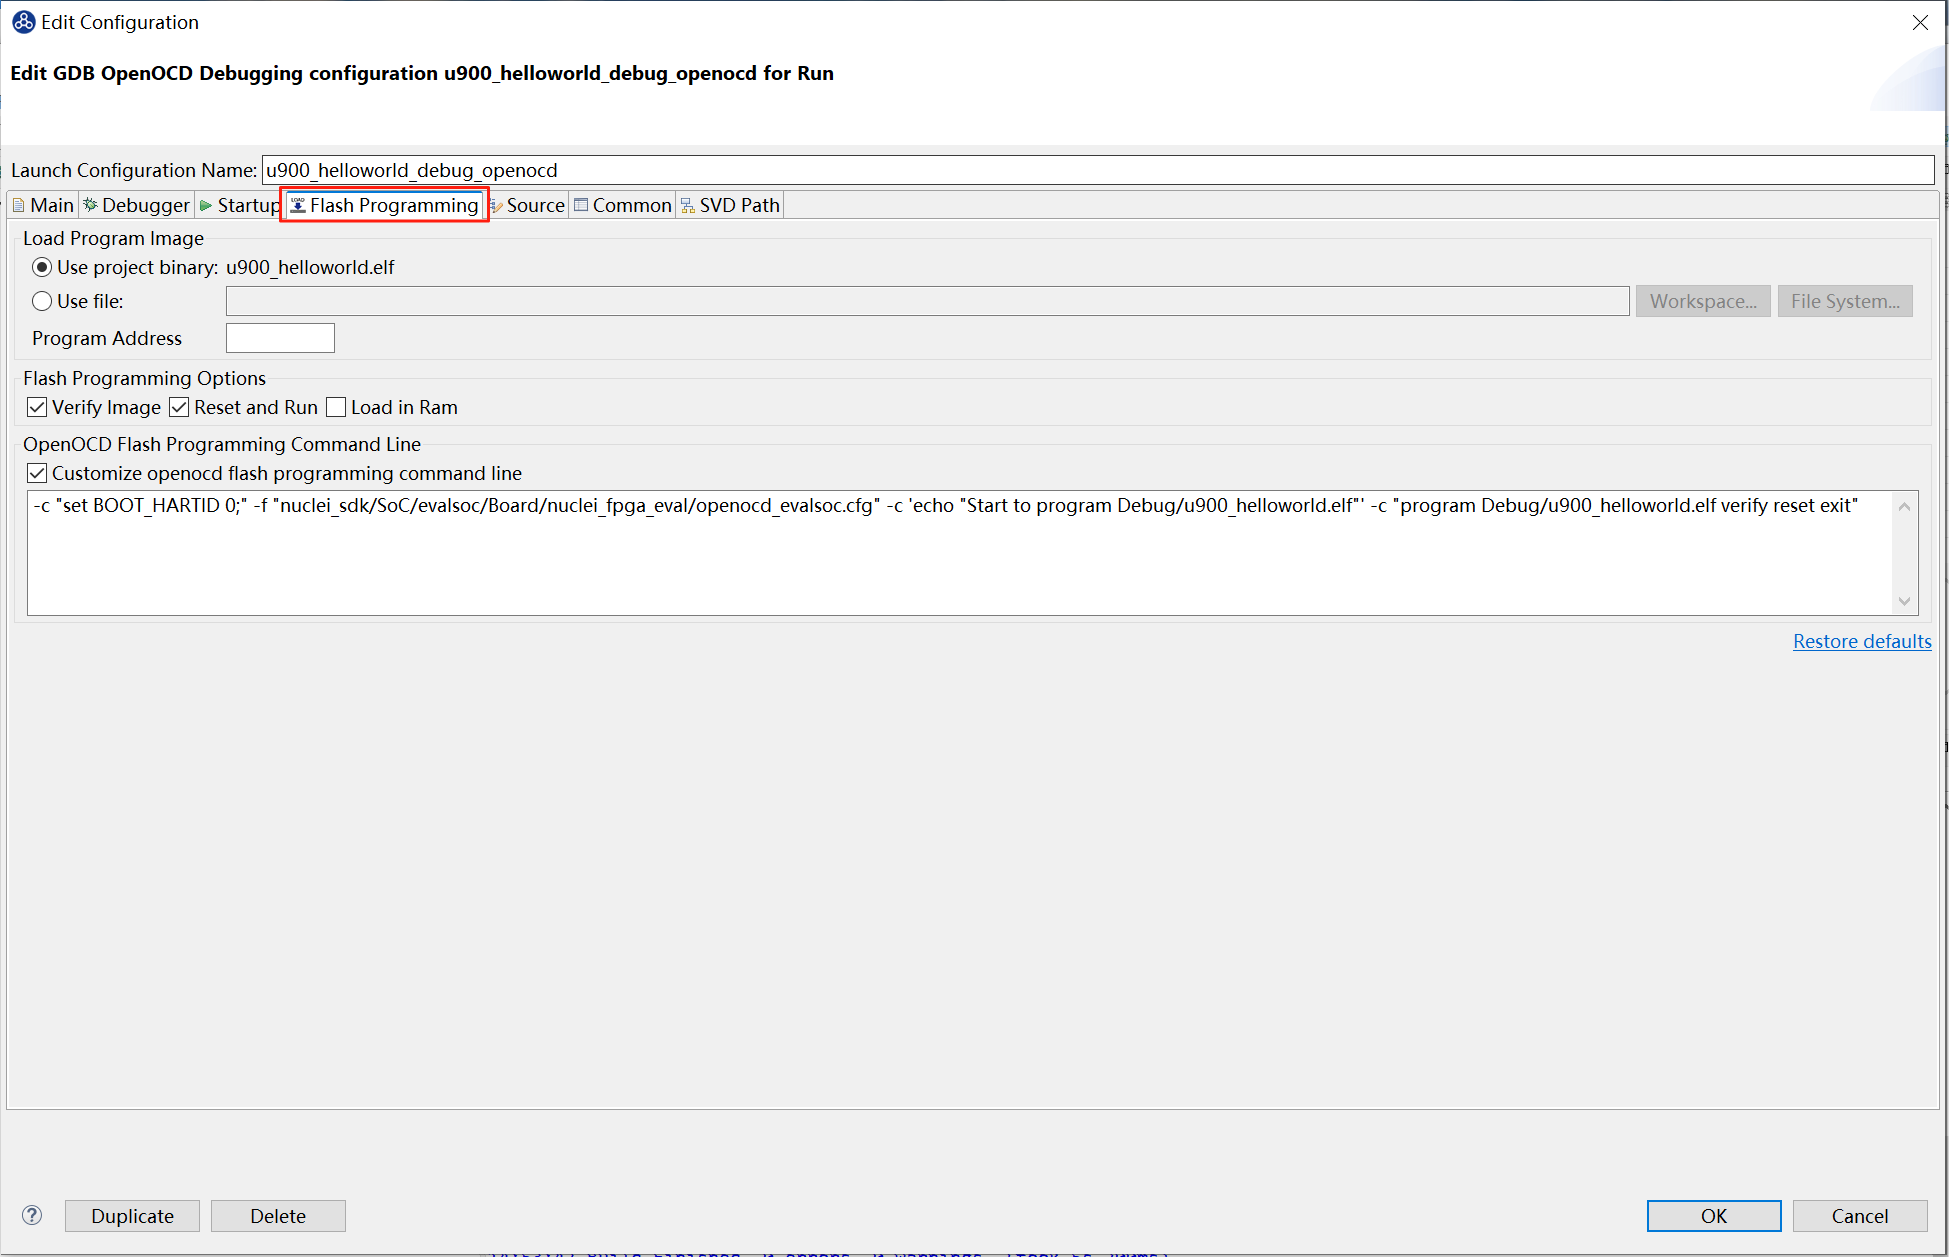
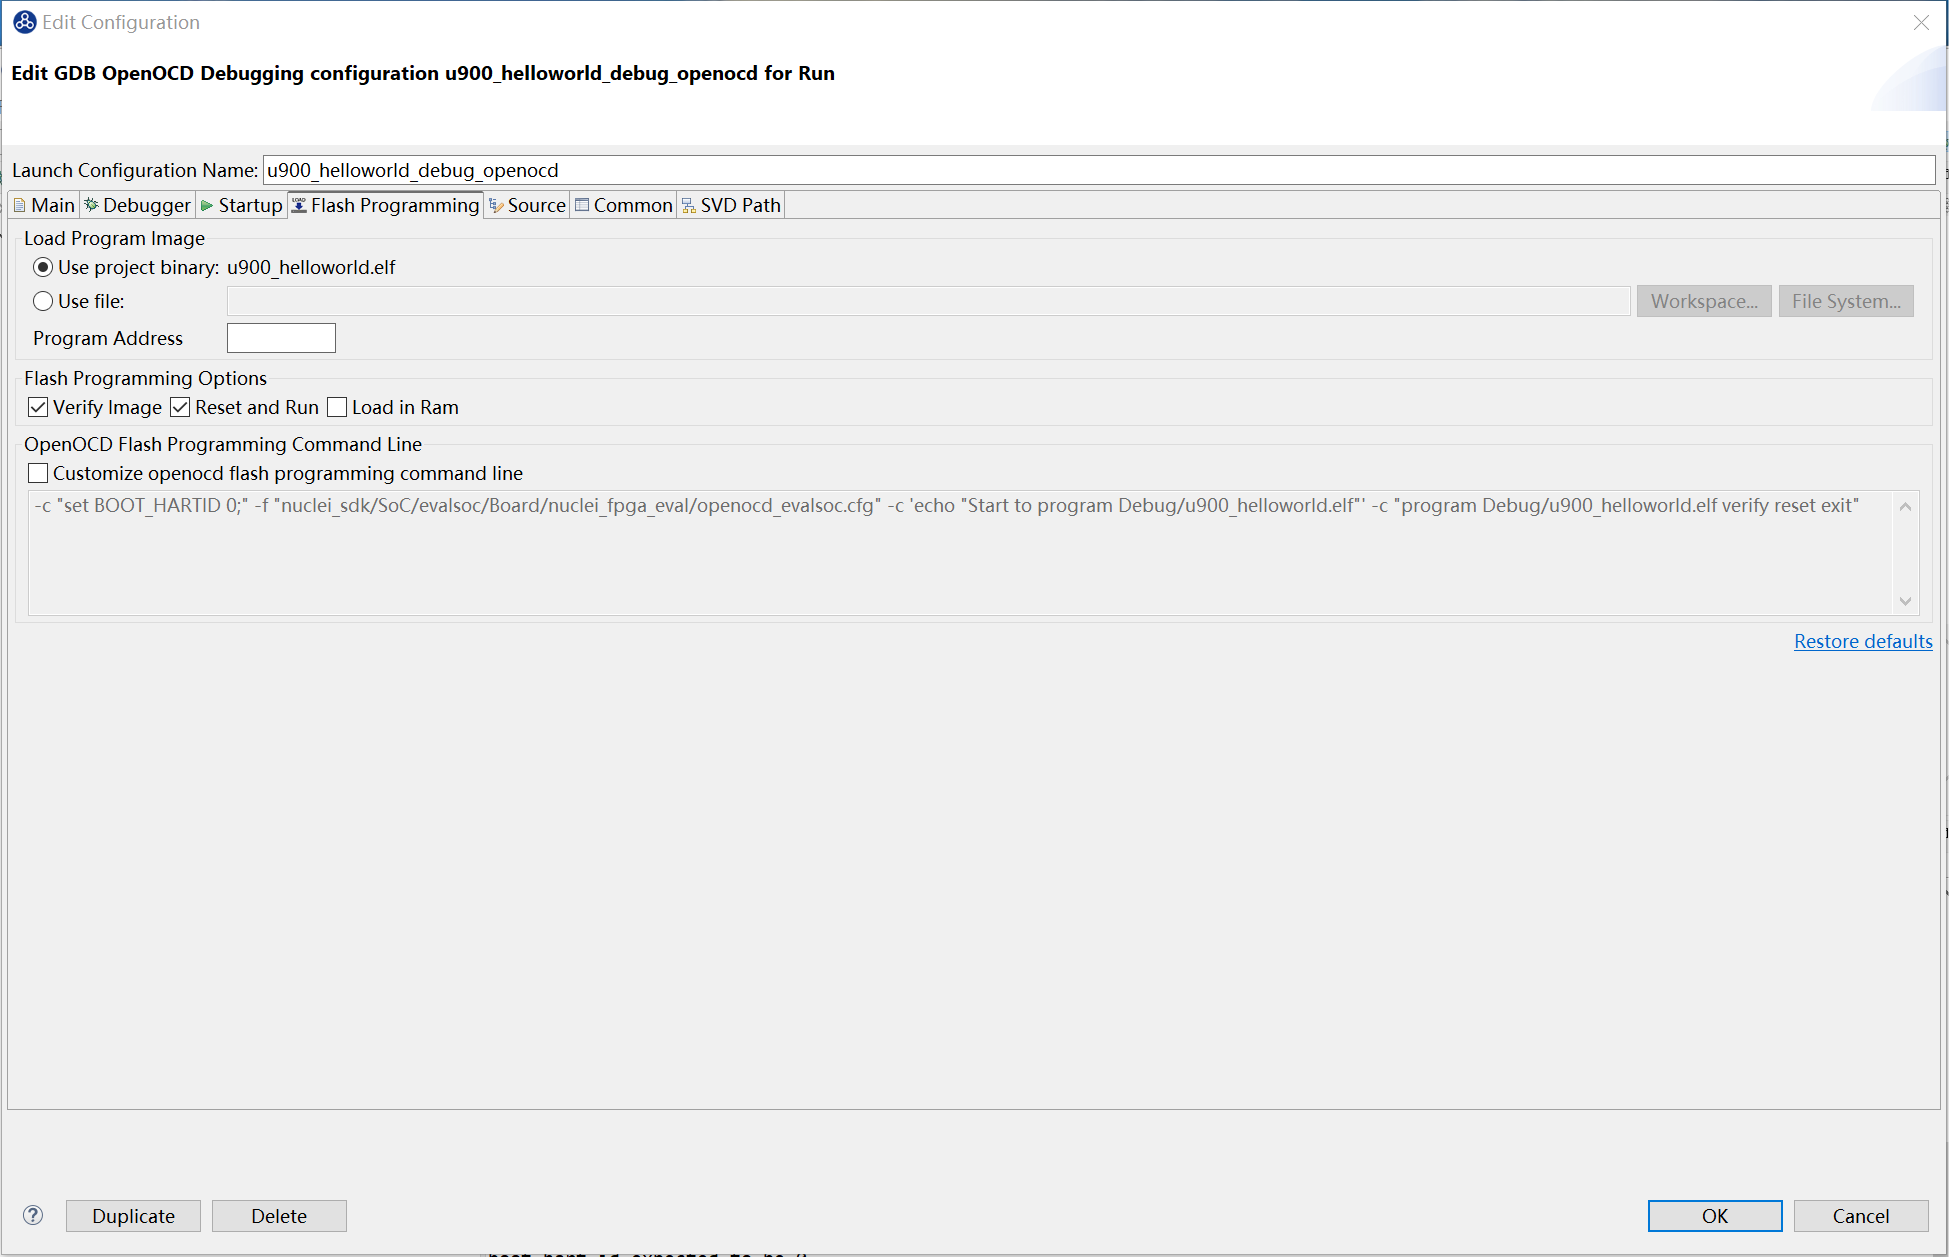
修改文档

diff --git a/20-quick_downloads_using_flash_programming.md b/20-quick_downloads_using_flash_programming.md
@@ -37,31 +37,90 @@
 
 选择 **Flash Programming** 选项卡，进入配置页面。
 
+由于是Flash下载模式，这里默认选择的verify image和reset and run即可。
+
 ![image-Ori_Project_Build](asserts/images/20/20-3.png)
 
 具体配置项内容可参考[Nuclei Development Tool Guide](https://download.nucleisys.com/upload/files/doc/nucleistudio/NucleiStudio_User_Guide.202502.pdf)
 
-现在这里使用的Flash下载模式，Flash Programming Options就要选中Verify Image和Reset and Run。
-
-如果使用的是下载到内存里，则勾选Load in Ram，然后获取起始加载地址，并写入到Progarm Address，Download命令会带上 resume {Progarm Address}参数。
-
-获取起始加载地址的方式如下。
-
-在NulceiStudio\toolchain\gcc\bin下执行命令行riscv64-unknown-elf-readelf -h u900_helloworld.elf
-
-![image-Ori_Project_Build](asserts/images/20/20-6.png)
-
-还有其他参数需要通过GDB执行时，我们将其加入到OpenOCD Flash Programming Command line，这里我们使用默认的参数。
-
 **step4：下载**
 
-鼠标右键项目，选择Flash Programming选项，下载二进制文件到硬件开发板。
+选中项目，点击Flash Programming，下载二进制文件到硬件开发板。
 
 ![image-Ori_Project_Build](asserts/images/20/20-4.png)
 
 下载成功后，用户可以在 **Console** 中看到下载结果，确认二进制文件已成功烧录到硬件中。
 
+~~~
+** Programming Started **
+Info : Padding image section 1 at 0x200029c4 with 4 bytes
+** Programming Finished **
+** Verify Started **
+Warn : [riscv.cpu] Re-reading memory from addresses 0x20000004 and 0x20000008.
+Warn : [riscv.cpu] Re-reading memory from addresses 0x20000010 and 0x20000014.
+** Verified OK **
+** Resetting Target **
+Info : JTAG tap: riscv.cpu tap/device found: 0x10900a6d (mfg: 0x536 (Nuclei System Technology Co Ltd), part: 0x0900, ver: 0x1)
+Info : [riscv.cpu] Register fp is dirty!
+Info : [riscv.cpu] Register s1 is dirty!
+Info : [riscv.cpu] Register a0 is dirty!
+Info : [riscv.cpu] Register a1 is dirty!
+Info : [riscv.cpu] Discarding values of dirty registers.
+shutdown command invoked
+~~~
+
+
+
 ![image-Ori_Project_Build](asserts/images/20/20-5.png)
+
+![image-Ori_Project_Build](asserts/images/20/20-6.png)
+
+**step5：下载到内存的区别**
+
+Nuclei Studio有DDR、FLASH、FLASHXIP、ILM、SRAM多种下载模式。
+
+FLASH、FLASHXIP模式按上面的步骤使用即可，而DDR、ILM、SRAM是下载到内存中的与Flash有所区别，下面以ILM为例。
+
+点击Nulcei Settings打开页面，在Download中选择ILM并保存。
+
+![image-Ori_Project_Build](asserts/images/20/20-7.png)
+
+重新编译项目，clean project -> build project
+
+然后打开对应的.map文件，这里是u900_helloworld.map，在里面找到起始加载地址，如下图的0x80000000
+
+![image-Ori_Project_Build](asserts/images/20/20-8.png)
+
+打开Flash Programming选项卡，因为是下载到内存，这里要勾选Load in Ram,此时下面的command line会增加load_image命令，
+
+再在Program Address中填入上面获取到的地址0x80000000,command line会带上 resume 0x80000000参数。点击OK。
+
+![image-Ori_Project_Build](asserts/images/20/20-9.png)
+
+选中项目，点击Flash Programming下载。结果如下。
+
+~~~
+Info : Valid NUSPI on device Nuclei SoC SPI Flash at address 0x20000000 with spictrl regbase at 0x10014000
+Info : Nuclei SPI controller version 0xee010102
+Info : Found flash device 'win w25q256fv/jv' (ID 0x001940ef)
+semihosting is enabled
+Start to program Debug/u900_helloworld.elf to 0x80000000
+10680 bytes written at address 0x80000000
+1344 bytes written at address 0x90000000
+downloaded 12024 bytes in 0.263079s (44.634 KiB/s)
+verified 12024 bytes in 0.317004s (37.041 KiB/s)
+shutdown command invoked
+~~~
+
+
+
+![image-Ori_Project_Build](asserts/images/20/20-10.png)
+
+![image-Ori_Project_Build](asserts/images/20/20-11.png)
+
+值得说明的是，当勾选OpenOCD Flash Programming Command line时，上面的选择不再生效，而是自定义输入参数去通过GDB执行。
+
+![image-Ori_Project_Build](asserts/images/20/20-12.png)
 
 ### 总结
 
